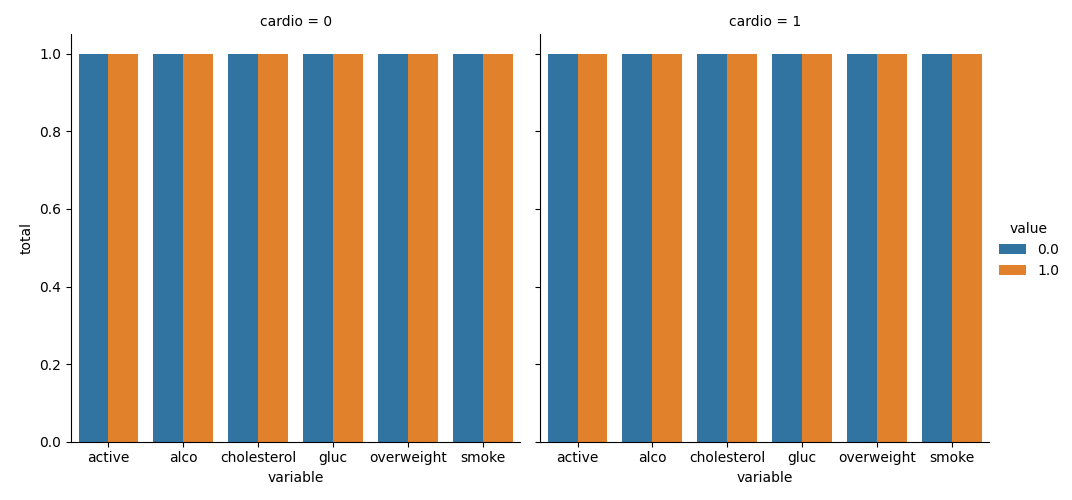
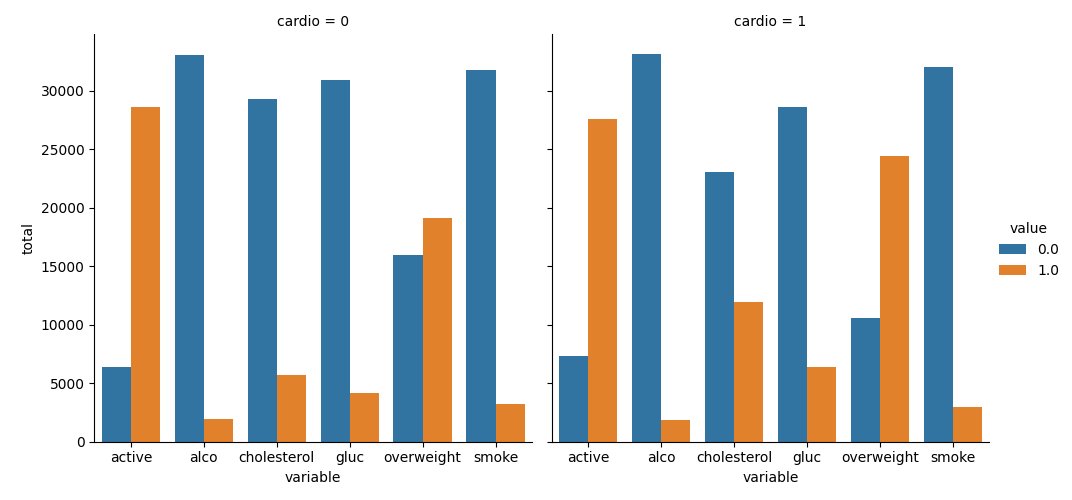
fix: adjusts the catplot

diff --git a/medical_data_visualizer.py b/medical_data_visualizer.py
@@ -29,12 +29,12 @@ def draw_cat_plot():
 
 
     # 7
-    graph = sns.catplot(x='variable', hue='value', col='cardio', data=df_cat, kind='count')
+    graph = sns.catplot(x='variable', y='total', hue='value', col='cardio', data=df_cat, kind='bar')
 
 
     # 8
     graph.set_axis_labels("variable", "total")
-    fig = graph.fig
+    fig = graph.figure
 
     # 9
     fig.savefig('catplot.png')
